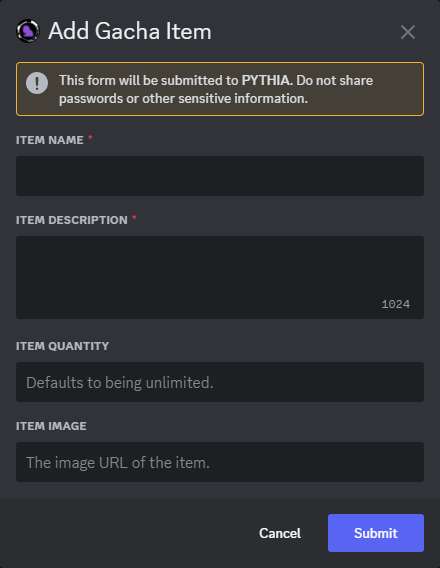
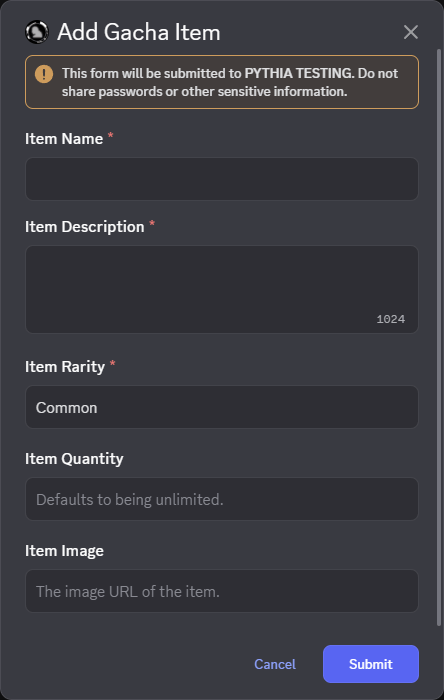
feat: gacha rarities

diff --git a/overrides/main.html b/overrides/main.html
@@ -1,5 +1,9 @@
 {% extends "base.html" %}
 
+{% block announce %}
+Rarities for gacha items have been added! Check out the <a href="/updates/2025/05/31/gacha-rarities.html"><strong>the announcement post</strong></a> for more info.
+{% endblock %}
+
 <!-- Site title -->
 {% block htmltitle %}
 {% if page.is_homepage %}

diff --git a/docs/setup/gacha_setup.md b/docs/setup/gacha_setup.md
@@ -15,12 +15,49 @@ All configuration commands for the gacha can be found under the `/gacha-config` 
   ![An example of a gacha configuration.](gacha_config.png)
 </figure>
 
-You can get a pretty good idea of what options are available to you just from this alone, but to change them:
-- `/gacha-config names` allows you to change how the gacha system names things in most messages.
+Some basic options include:
+- `/gacha-config names` allows you to change how the gacha system publicly displays the names of things like the currency and gacha rarities.
 - `/gacha-config cost` sets the cost of each roll. By default, it costs 1 currency to roll, and users will need at least that amount to do so - you can adjust it how you like, though.
 - `/gacha-config draw-duplicates` allows you to toggle whether or not users can draw items they already own from the gacha. By default, they can.
+- Finally `/gacha-config toggle` turns on or off the gacha system. Players cannot use any of the gacha commands (as discussed on the [gacha usage page](gacha.md)) if the gacha system is turned off. It's suggested that you add your items before turning the gacha system on.
 
-Finally `/gacha-config toggle` turns on or off the gacha system. Players cannot use any of the gacha commands (as discussed on the [gacha usage page](gacha.md)) if the gacha system is turned off. It's suggested that you add your items before turning the gacha system on.
+### Rarities
+
+Rarities are a way to indicate how likely an item is to be drawn from the gacha. The rarer the item, the less likely it is to be drawn. The defaults for rarities are shown in the above configuration image, but you can change the fields you want to with `/gacha-config rarities`.
+
+#### Rarity Colors
+
+Editing rarity colors will determine the color of the embed (the color to the side of them) for items with a particular rarity.
+
+<figure markdown>
+  ![An example of editing rarity colors.](gacha_rarity_color.png)
+</figure>
+
+!!! note "Values for Rarity Colors"
+    The values for rarity colors are in hexadecimal format, which is the same format used for colors in HTML and CSS. You can use a color picker to find the color you want, or you can use a website like [this one from Google](https://g.co/kgs/TxT34xV) to find the hex code for the color you want. The # is optional, and shortened hex codes (like #f00 for red) are *not* supported.
+
+#### Rarity Odds
+
+Editing rarity odds will determine how likely an item of that rarity is to be drawn from the gacha.
+
+!!! note "Odds and Rolling Items"
+    When a user rolls/draws/pulls an item, the bot will randomly select a rarity based on the odds you set. It will then randomly select an item from that rarity to give to the user.
+
+    However, if there are no items of that rarity, the bot will *first* try to find an item of a lower rarity in descending rarity order, and if that fails, *then* it will try to find an item of a higher rarity in ascending rarity order. This means that even if you set the odds to 0% for a rarity, it may still be possible to get an item of that rarity if the bot has to do this search.
+
+The odds are represented as a percentage, and the sum of all odds must equal 100%.
+
+<figure markdown>
+  ![An example of editing rarity odds.](gacha_rarity_odds.png)
+</figure>
+
+!!! note "Values for Rarity Odds"
+    - If you wish, you can also use raw decimal values for the odds, such as 0.1. In that case, all values must add up to 1.0.
+    - For percentage values, the max decimal precision is 2, so you can use values like 10.01%, for example. For raw decimal values, the max precision is 4, so you can use values like 0.1001.
+
+#### Rarity Names
+
+Rarity names can be changed through `/gacha-config names`. Do note that even if you change the names, when adding/editing items, you will still need to use the default rarity names (common, uncommon, rare, epic, legendary) in order to assign rarities to items.
 
 ## Items
 
@@ -47,8 +84,11 @@ Once you click that button, a little prompt will appear to fill out the details 
 </figure>
 
 You get a number of customization options here:
-- The name and description are, well, exactly what you expect. Names must be unique across different items. Both of these fields are required.
-- The quantity is, well, how many of this item you want to add to the gacha system. By default, there will be infinite amounts of this item - otherwise, for each time someone draws the item, its quantity decreases until it reaches 0 and can no longer be drawn for.
+- The name and description are exactly what you expect. Names must be unique across different items. Both of these fields are required.
+- The rarity is the rarity of the item, which will determine how likely it is to be drawn from the gacha. By default, items get created with a common rarity, but you can choose one of: common, uncommon, rare, epic, or legendary.
+  - If you have changed the rarity names in the gacha configuration, those will *not* be reflected here.
+  - Rarities are discussed more in the [rarities section](#rarities) above.
+- The quantity is how many of this item you want to add to the gacha system. By default, there will be infinite amounts of this item - otherwise, for each time someone draws the item, its quantity decreases until it reaches 0 and can no longer be drawn for.
 - The image is optional, but if you provide a URL to an image, it'll be displayed when a player draws the item (as a thumbnail in an embed). This can be useful for showing off what the item looks like.
 
 Once you fill out the prompt, you should get a message about how the item was added successfully!
@@ -113,6 +153,7 @@ You can also edit it directly if you wish; this should not be necessary, but can
     - **You are generally expected to know how JSON files work. There will be no support given for editing JSON files.**
     - Keep the version number the same! The version number is used to indicate the format of the items, which makes sure JSON files work even in the future. Changing it can lead to unexpected side effects.
     - Stay to the format that your JSON file has. Any deviations will likely not be tolerated.
+    - `rarity` can range from 1-5, and represent (in order) common, uncommon, rare, epic, and legendary.
     - When `amount` is `-1`, that means it is unlimited.
     - The bot enforces the same limitations as making items through the bot itself.
 

diff --git a/docs/usage/gacha.md b/docs/usage/gacha.md
@@ -21,20 +21,19 @@ Currency, of course, is your way of being able to roll in the gacha system. *Sta
 
 ## Rolling/Pulling/Drawing
 
-The main event! To roll from the gacha, you can use `/gacha roll`. This will give you a random item from the gacha pool, and it'll be added to your gacha item inventory. Here's an example of what that looks like:
+The main event! To use the gacha, you can use `/gacha roll`, `/gacha draw`, or `/gacha pull`. This will give you a random item from the gacha pool, and it'll be added to your gacha item inventory. Here's an example of what that looks like:
 
 <figure markdown>
-  ![An example of /gacha roll.](gacha_draw.png)
+  ![An example of /gacha pull.](gacha_draw.png)
 </figure>
 
-!!! note "Aliases"
-    You can also use `/gacha draw` or `/gacha pull` as aliases for `/gacha roll`.
+A gacha item's rarity determines how likely it is to be drawn. The rarer the item, the less likely it is to be drawn. The rarities are usually defined by the staff, but they can include things like "common", "uncommon", "rare", "epic", and "legendary". Note that some servers may not use rarities at all - the item's rarity will not be displayed if that is the case.
 
-Each roll costs a certain amount of currency (dependent on the staff - the bot will tell you how much each roll costs if you do not have enough), so be sure to check how much you have before you draw!
+Finally, each use costs a certain amount of currency (dependent on the staff - the bot will tell you how much each use costs if you do not have enough), so be sure to check how much you have before you draw!
 
 ## Viewing an Item
 
-Now, `/gacha profile`, as mentioned earlier, can be used to view all of your items. But if you want to see more information about a single item, you can use `/gacha view-item` and specify the name of the item you want to see. This will give you a more detailed view of the item, including its description, and image (if it has one).
+Now, `/gacha profile`, as mentioned earlier, can be used to view all of your items. But if you want to see more information about a single item, you can use `/gacha view-item` and specify the name of the item you want to see. This will give you a more detailed view of the item, including its description, rarity (if the server uses rarities), and image (if it has one).
 
 <figure markdown>
   ![An example of /gacha view-item.](view_gacha_item_player.png)
@@ -51,5 +50,5 @@ Feeling generous? You can give currency to another player using `/gacha give-cur
 ## Notes
 
 - Items are made by the staff of your server. PYTHIA does not take responsibility for the items in the gacha system.
-- Each item has an equal chance of being rolled, at least for right now. You may or may not be able to draw items you already own - that's, once again, dependent on staff.
+- You may or may not be able to draw items you already own - that's, once again, dependent on staff.
 - As implied earlier, the staff decide if they wish to use the gacha at all. It's a good idea to defer to them for any questions about the gacha system in your server.

diff --git a/docs/updates/posts/053125-gacha-rarities.md b/docs/updates/posts/053125-gacha-rarities.md
@@ -1,0 +1,57 @@
+---
+date: 2025-05-31
+authors:
+  - astrea
+categories:
+  - Feature
+
+description: Gacha rarities have been added to PYTHIA, allowing for more complex gacha systems.
+comments: true
+---
+
+# Gacha Rarities
+
+PYTHIA now supports gacha rarities! This allows for more complex gacha systems, where items can have different rarities and thus different chances of being drawn.
+
+<!-- more -->
+
+## Description
+
+Gacha rarities are a way to categorize items in the gacha system based on their rarity. This categorization affects how likely an item is to be drawn when a user rolls/draws/pull in the gacha system. For example, a "common" item might have a higher chance of being drawn than a "legendary" item.
+
+<figure markdown>
+  ![An example of /gacha pull pulling a common item.](gacha_draw.png)
+</figure>
+
+By default, the rarities are:
+- Common (60%)
+- Uncommon (25%)
+- Rare (10%)
+- Epic (4%)
+- Legendary (1%)
+
+However, these can be customized by the server staff to fit their needs, as discussed in a later section.
+
+## Current Items
+
+As of right now, current items in the gacha system have a rarity of "common" by default. Because *all* items will be common, all items will have an equal chance of being drawn. This replicates the previous behavior of the gacha system, where all items had an equal chance of being drawn.
+
+Note that if all items in the gacha system are set to the same rarity, the bot is programmed to not display the rarity when rolling/drawing/pulling an item or when viewing the item with `/gacha view-item`. Once again, this is to replicate the previous behavior of the gacha system... although the color of the rarity will still be displayed, making the embed gray instead of PYTHIA's purple. To change this, you can set the color of the common rarity to PYTHIA's purple (#c156e0) in the gacha settings (how to do so is discussed below).
+
+## Setting Up Rarities For Items
+
+To edit the rarity of an item, you can use `/gacha-manage edit-item` as per usual:
+
+<figure markdown>
+  ![An example of the prompt to edit an item.](edit_gacha_item_modal.png)
+</figure>
+
+A new rarity field has been added, and it can be set to one of the following: common, uncommon, rare, epic, or legendary. Note that even if you change the names of the rarities, these names will still be used in the item rarity field.
+
+Adding a new item will also prompt you to set the rarity of the item, so you can set it when you add the item to the gacha system.
+
+## Rarity Configuration
+
+By default, rarities can be used right away, but you can customize them to fit your needs. To do so, you can use `/gacha-config rarities` to edit rarity colors and their odds, while `/gacha-config names` can be used to edit the names of the rarities.
+
+More information on how to do this can be found in the [rarities section](gacha_setup.md#rarities) of the gacha setup guide.

diff --git a/docs/faq.md b/docs/faq.md
@@ -91,6 +91,10 @@ You can! Using [the source code](https://github.com/AstreaTSS/PYTHIA), you can s
 
     If you run into issues, I will only give limited support on my [support server](https://discord.gg/NSdetwGjpK), and will expect you to have a reasonable understanding of Python, Discord, Git, and potentially Docker. I am not tech support.
 
+!!! danger "This Guide Is Outdated"
+    The self-hosting instructions below are outdated, also the process is mostly the same. They will be updated in the future, but for now, note:
+    - Instead of using `prisma`, the bot now uses `tortoise-orm` and `aerich`. `aerich init-db` and `aerich upgrade` are your friends; you can find more information on the [aerich README](https://github.com/tortoise/aerich).
+
 #### Recommended Process (Docker)
 
 That being said, the recommended process is:
